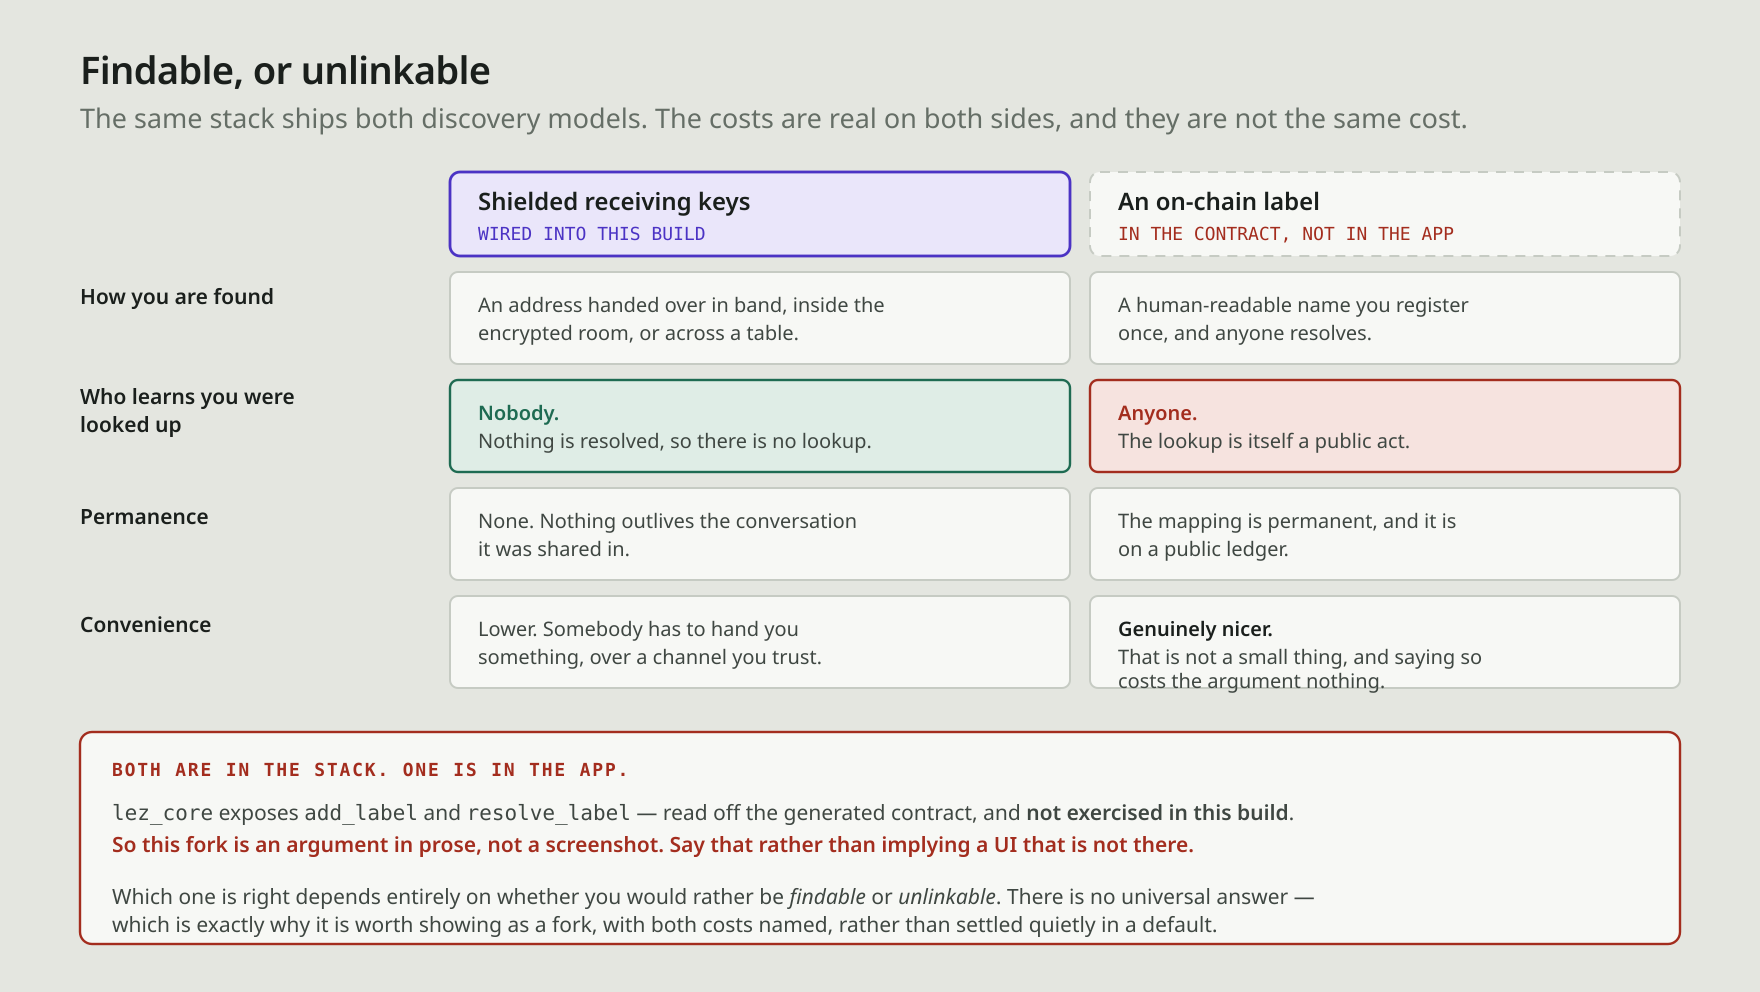
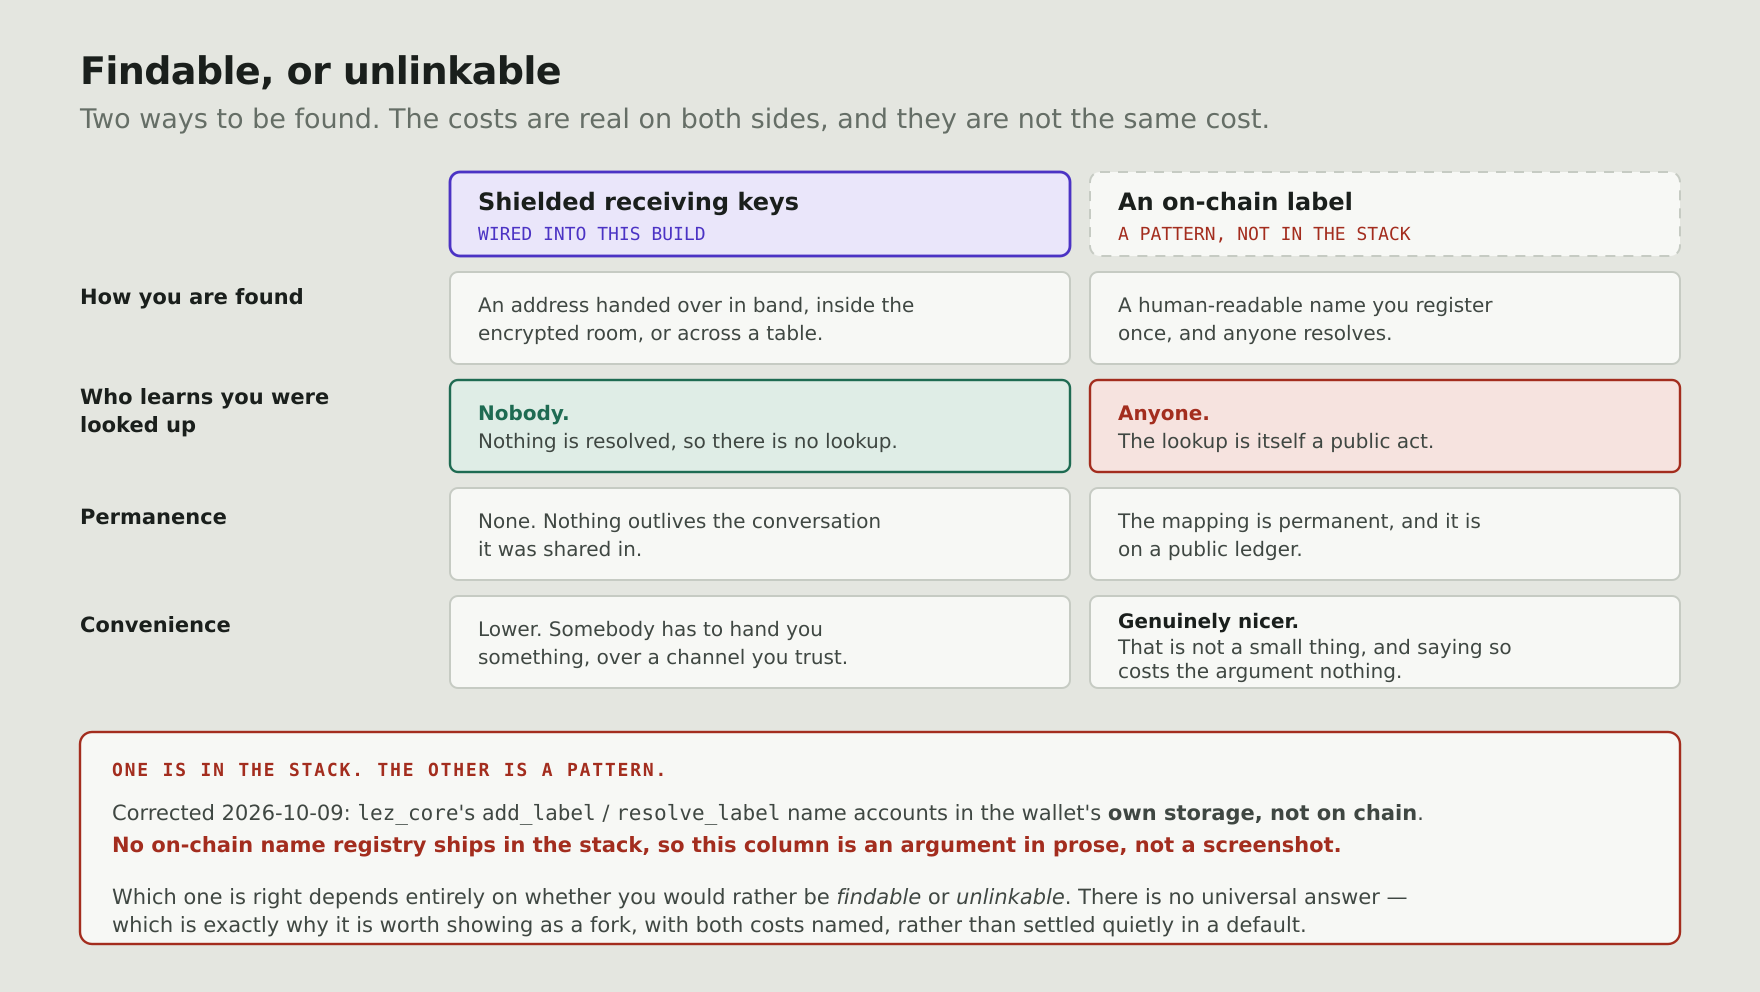
docs(diagrams): every figure re-checked and re-stamped; the findable/unlinkable figure corrected
The manifest's 58 warnings are cleared: check-manifest.py reports no
warnings and no failures. Four reviews (#262–#265) checked all 27
figures against the diffs of their sources since each was stamped, and
fixed 12. This commit:
- re-stamps the 64 source hashes and regenerates four provenance
  blocks and the index;
- adds the sources those reviews found the figures now draw on:
  - substrate-stack: module/metadata.json, the mixnet labbook;
  - mech-driver-seam: materialization.nim, parts.nim;
  - mech-wallet-seam: evm_adapter.nim, monero_backend.nim.
- rewrites the stale recheck and source notes that still called F-4/F-20
  unbuilt or muster-module dashed;
- corrects the diagrams README's substrate-stack row, which said the
  module and the mixnet were not shipped.

pipeline-findable-unlinkable.svg said the stack ships "an on-chain label
anyone resolves". lez_core's add_label / resolve_label go through
wallet_ffi_add_label on the wallet's own handle
(logos-execution-zone-module src/lez_core_module.cpp @549cf115): names
in the wallet's own storage, not on chain. No on-chain name registry
ships in the stack. The column is now marked a pattern, with a dated
correction. The figure's argument, findable versus unlinkable, stands.
Its last cell's text, which sat on the box edge, now fits.

TDD-Exempt: figures and their manifest; check-manifest.py exit 0 with no warnings, the corrected figure rendered and looked at

Session-Id: 836705fe-fda9-501b-8ac2-1ce50b5af64a

diff --git a/docs/diagrams/index.html b/docs/diagrams/index.html
@@ -211,7 +211,7 @@ and every multisig family it has built, plans, watches or rejected, and exactly 
         <a class="thumb" href="pipeline-findable-unlinkable.svg"><img src="pipeline-findable-unlinkable.png" alt="" loading="lazy"></a>
         <div class="meta">
           <h3><a href="pipeline-findable-unlinkable.svg">Findable or unlinkable: two discovery models on one stack</a></h3>
-          <p>Two discovery models the same stack ships: shielded receiving keys handed over in band, against an on-chain label anyone can resolve — with which one is actually wired into the build marked on its face.</p>
+          <p>Two ways to be found: shielded receiving keys handed over in band (wired into the build), against a public on-chain name anyone resolves, a pattern no part of the stack ships. Each column names its cost.</p>
           <p class="tags"><span class="s s-post">POST</span><span class="g g-measured">measured</span><span class="g g-from-source">from source</span>
             <a class="src" href="https://github.com/corpetty/muster/blob/main/docs/diagrams/pipeline-findable-unlinkable.svg">source</a></p>
         </div>
@@ -326,7 +326,7 @@ and every multisig family it has built, plans, watches or rejected, and exactly 
         <a class="thumb" href="mech-driver-seam.svg"><img src="mech-driver-seam.png" alt="" loading="lazy"></a>
         <div class="meta">
           <h3><a href="mech-driver-seam.svg">The driver seam: the core never interprets contribution bytes</a></h3>
-          <p>F-6&#x27;s seven driver methods and where the build puts each (the Driver, the core&#x27;s Collection, the Settlement seam), the axes describe returns, three of the registry&#x27;s drivers behind one interface, and the conformance suite that gates them.</p>
+          <p>F-6&#x27;s seven driver methods and where the build puts each (the Driver, the core&#x27;s Collection, the Settlement seam, or for a split settlement in parts), the axes describe returns, three of the registry&#x27;s drivers behind one interface, and the conformance suite that gates them.</p>
           <p class="tags"><span class="s s-build">BUILD</span><span class="g g-from-source">from source</span>
             <a class="src" href="https://github.com/corpetty/muster/blob/main/docs/diagrams/mech-driver-seam.svg">source</a></p>
         </div>

diff --git a/docs/diagrams/README.md b/docs/diagrams/README.md
@@ -281,7 +281,7 @@ None of this produces a publishable figure. All of it makes every later tranche 
 
 | | |
 |---|---|
-| `substrate-stack.html` | The forked engine, re-skinned, six views. Mix and `muster-module` both shown as not shipped; a dark *beyond your device* band naming the observers |
+| `substrate-stack.html` | The forked engine, re-skinned, seven views. `muster-module` built (0.2.0 in its own Basecamp catalogue) with its EVM modules, the optional Monero backend and `modules_state` dashed; mix opt-in for sends only (2026-10-09); a dark *beyond your device* band naming the observers |
 | `manifest.json` | Provenance per figure, source hashes stamped |
 | `tools/check-manifest.py` | `--update` re-stamps hashes, `--stamp` writes provenance blocks into the SVGs. All four failure modes verified to fire |
 | `tools/export-frames.mjs` | Frames out of a substrate, no dependencies, idempotent |
